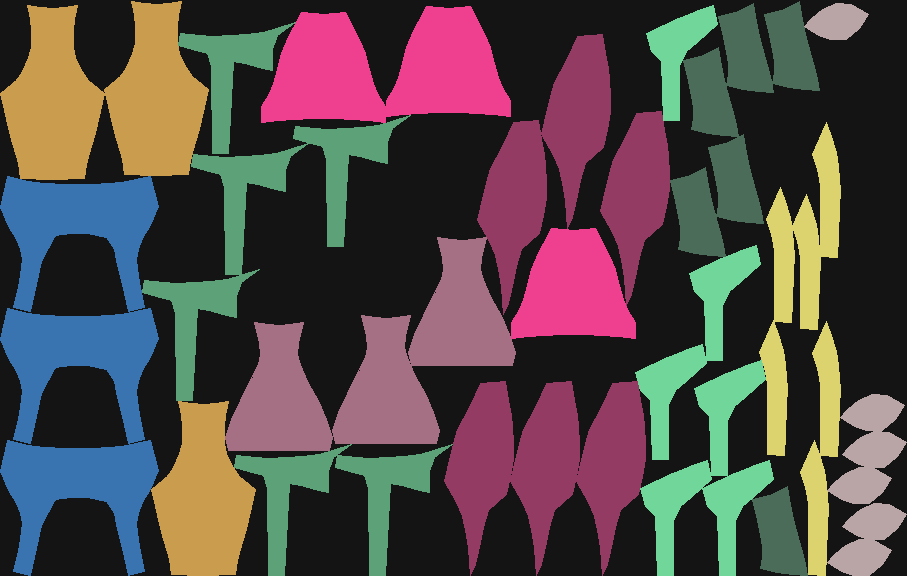
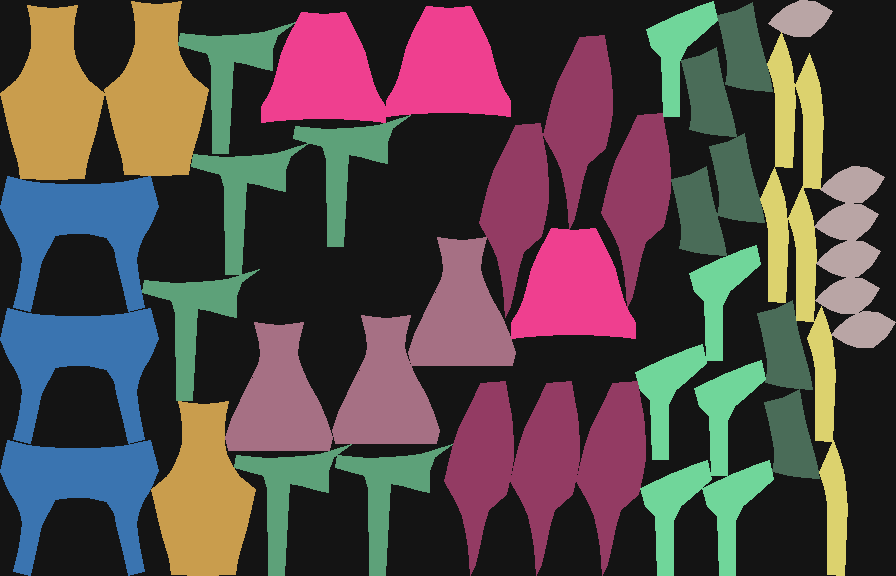
feat: main now runs all instances

diff --git a/src/main.cpp b/src/main.cpp
@@ -1,8 +1,11 @@
 #include <iostream>
 #include <fstream>
+#include <sstream>
+#include <iomanip>
 #include <vector>
 #include <cmath>
 #include <algorithm>
+#include <chrono>
 #include <filesystem>
 
 #include "grid.h"
@@ -11,20 +14,30 @@
 #include "conversor.h"
 #include "io.h"
 
-int main(int argc, char* argv[]) {
-    const std::string caminho_config = (argc > 1) ? argv[1] : "./config/config.txt";
+struct Resultado {
+    std::string instancia;
+    double escala = 0.0;
+    double largura_folha_real = 0.0;
+    size_t total_pecas = 0;
+    int comprimento_grid = 0;
+    double comprimento_real = 0.0;
+    double eficiencia = 0.0;
+    double tempo_ms = 0.0;
+};
 
-    Config config;
-    if (!ler_config(caminho_config, config)) return 1;
+bool executar_instancia(const std::string& caminho, const std::string& nome,
+                        const ParametrosInstancia& params, const std::string& dir_saida,
+                        Resultado& resultado) {
+    const auto inicio = std::chrono::steady_clock::now();
 
-    std::ifstream arquivo(config.arquivo);
+    std::ifstream arquivo(caminho);
     if (!arquivo.is_open()) {
-        std::cerr << "Erro ao abrir o ficheiro: " << config.arquivo << std::endl;
-        return 1;
+        std::cerr << "Erro ao abrir o ficheiro: " << caminho << std::endl;
+        return false;
     }
 
-    const double ESCALA = config.escala;
-    const double LARGURA_FOLHA_REAL = config.largura_folha_real;
+    const double ESCALA = params.escala;
+    const double LARGURA_FOLHA_REAL = params.largura_folha_real;
 
     std::vector<Componente> lista_pecas;
     int soma_comprimentos_grid = 0;
@@ -65,21 +78,99 @@ int main(int argc, char* argv[]) {
         alocar_componente(folha, peca, comprimento_final_grid);
     }
 
+    const auto fim = std::chrono::steady_clock::now();
+
     // 4. Resultados
-    double comprimento_real_usado = comprimento_final_grid / ESCALA;
-    double eficiencia = static_cast<double>(area_total_ocupada_pelas_pecas) /
-                        (largura_folha_grid * comprimento_final_grid) * 100.0;
+    resultado.instancia = nome;
+    resultado.escala = ESCALA;
+    resultado.largura_folha_real = LARGURA_FOLHA_REAL;
+    resultado.total_pecas = lista_pecas.size();
+    resultado.comprimento_grid = comprimento_final_grid;
+    resultado.comprimento_real = comprimento_final_grid / ESCALA;
+    resultado.eficiencia = static_cast<double>(area_total_ocupada_pelas_pecas) /
+                           (static_cast<double>(largura_folha_grid) * comprimento_final_grid) * 100.0;
+    resultado.tempo_ms = std::chrono::duration<double, std::milli>(fim - inicio).count();
 
-    std::cout << "=== RESULTADO DO EMPACOTAMENTO ===" << std::endl;
-    std::cout << "Total de pecas alocadas : " << lista_pecas.size() << std::endl;
-    std::cout << "Comprimento na grelha   : " << comprimento_final_grid << " celulas" << std::endl;
-    std::cout << "Comprimento real (C_L)  : " << comprimento_real_usado << std::endl;
-    std::cout << "Eficiencia do layout    : " << eficiencia << "%" << std::endl;
-
-    // Nome da saída derivado da instância (ex.: dataset/swim.txt -> outputs/layout_swim.ppm)
-    const std::string dir_saida = "outputs";
-    const std::string nome_ppm = dir_saida + "/layout_" + std::filesystem::path(config.arquivo).stem().string() + ".ppm";
-    if (!exportar_ppm(folha, comprimento_final_grid, nome_ppm)) return 1;
+    const std::string nome_ppm = dir_saida + "/layout_" + nome + ".ppm";
+    if (!exportar_ppm(folha, comprimento_final_grid, nome_ppm)) return false;
     converter_ppm_para_png(nome_ppm, dir_saida);
-    return 0;
+    return true;
+}
+
+std::string tabela_markdown(const std::vector<Resultado>& resultados) {
+    std::ostringstream md;
+    md << std::fixed;
+    md << "| Instancia | Escala | Largura da folha | Total de pecas alocadas | Comprimento na grelha"
+          " | Comprimento real (C_L) | Eficiencia do layout | Tempo de execucao |\n";
+    md << "|---|---:|---:|---:|---:|---:|---:|---:|\n";
+    for (const auto& r : resultados) {
+        md << "| " << r.instancia
+           << " | " << std::defaultfloat << std::setprecision(6) << r.escala
+           << " | " << r.largura_folha_real << std::fixed
+           << " | " << r.total_pecas
+           << " | " << r.comprimento_grid << " celulas"
+           << " | " << std::setprecision(2) << r.comprimento_real
+           << " | " << std::setprecision(2) << r.eficiencia << "%"
+           << " | " << std::setprecision(3) << r.tempo_ms << " ms |\n";
+    }
+    return md.str();
+}
+
+int main(int argc, char* argv[]) {
+    const std::string caminho_config = (argc > 1) ? argv[1] : "./config/config.txt";
+
+    Config config;
+    if (!ler_config(caminho_config, config)) return 1;
+
+    std::vector<std::filesystem::path> instancias;
+    std::error_code ec;
+    for (const auto& entrada : std::filesystem::directory_iterator(config.dataset, ec)) {
+        if (entrada.is_regular_file() && entrada.path().extension() == ".txt") {
+            instancias.push_back(entrada.path());
+        }
+    }
+    if (ec) {
+        std::cerr << "Erro ao listar " << config.dataset << ": " << ec.message() << std::endl;
+        return 1;
+    }
+    std::sort(instancias.begin(), instancias.end());
+
+    const std::string dir_saida = "outputs";
+    std::vector<Resultado> resultados;
+    bool houve_erro = false;
+
+    for (const auto& caminho : instancias) {
+        const std::string nome = caminho.stem().string();
+        auto it = config.instancias.find(nome);
+        if (it == config.instancias.end()) {
+            std::cerr << "Instancia '" << nome << "' sem parametros em " << caminho_config
+                      << " (adicione '" << nome << " = <escala> <largura_folha_real>'); ignorada" << std::endl;
+            houve_erro = true;
+            continue;
+        }
+
+        std::cout << "Executando " << nome << "..." << std::endl;
+        Resultado r;
+        if (executar_instancia(caminho.string(), nome, it->second, dir_saida, r)) {
+            resultados.push_back(r);
+        } else {
+            houve_erro = true;
+        }
+    }
+
+    const std::string tabela = tabela_markdown(resultados);
+    std::cout << "\n=== RESULTADO DO EMPACOTAMENTO ===\n\n" << tabela << std::endl;
+
+    const std::string caminho_md = dir_saida + "/resultados.md";
+    std::filesystem::create_directories(dir_saida, ec);
+    std::ofstream md(caminho_md);
+    if (md.is_open()) {
+        md << "# Resultados do empacotamento\n\n" << tabela;
+        std::cout << "Tabela salva em " << caminho_md << std::endl;
+    } else {
+        std::cerr << "Erro ao criar " << caminho_md << std::endl;
+        houve_erro = true;
+    }
+
+    return houve_erro ? 1 : 0;
 }

diff --git a/src/io.cpp b/src/io.cpp
@@ -2,6 +2,7 @@
 #include <iostream>
 #include <limits>
 #include <filesystem>
+#include <sstream>
 
 static std::string aparar(const std::string& s) {
     const char* espacos = " \t\r\n";
@@ -18,7 +19,6 @@ bool ler_config(const std::string& caminho, Config& config) {
         return false;
     }
 
-    bool tem_arquivo = false, tem_escala = false, tem_largura = false;
     std::string linha;
     int num_linha = 0;
 
@@ -36,33 +36,30 @@ bool ler_config(const std::string& caminho, Config& config) {
         std::string chave = aparar(linha.substr(0, igual));
         std::string valor = aparar(linha.substr(igual + 1));
 
-        try {
-            if (chave == "arquivo") {
-                config.arquivo = valor;
-                tem_arquivo = true;
-            } else if (chave == "escala") {
-                config.escala = std::stod(valor);
-                tem_escala = true;
-            } else if (chave == "largura_folha_real") {
-                config.largura_folha_real = std::stod(valor);
-                tem_largura = true;
-            } else {
-                std::cerr << caminho << ":" << num_linha << ": chave desconhecida '" << chave << "'" << std::endl;
-                return false;
-            }
-        } catch (const std::exception&) {
-            std::cerr << caminho << ":" << num_linha << ": valor invalido para '" << chave << "'" << std::endl;
+        if (chave == "dataset") {
+            config.dataset = valor;
+            continue;
+        }
+
+        // Demais chaves: <instancia> = <escala> <largura_folha_real>
+        ParametrosInstancia params;
+        std::istringstream ss(valor);
+        std::string resto;
+        if (!(ss >> params.escala >> params.largura_folha_real) || (ss >> resto)) {
+            std::cerr << caminho << ":" << num_linha << ": esperado '" << chave
+                      << " = <escala> <largura_folha_real>'" << std::endl;
             return false;
         }
+        if (params.escala <= 0 || params.largura_folha_real <= 0) {
+            std::cerr << caminho << ":" << num_linha
+                      << ": escala e largura_folha_real devem ser positivos" << std::endl;
+            return false;
+        }
+        config.instancias[chave] = params;
     }
 
-    if (!tem_arquivo || !tem_escala || !tem_largura) {
-        std::cerr << "Configuracao incompleta em " << caminho
-                  << " (necessario: arquivo, escala, largura_folha_real)" << std::endl;
-        return false;
-    }
-    if (config.escala <= 0 || config.largura_folha_real <= 0) {
-        std::cerr << "escala e largura_folha_real devem ser positivos" << std::endl;
+    if (config.instancias.empty()) {
+        std::cerr << "Nenhuma instancia configurada em " << caminho << std::endl;
         return false;
     }
     return true;

diff --git a/include/io.h b/include/io.h
@@ -3,16 +3,24 @@
 
 #include <string>
 #include <fstream>
+#include <map>
 #include "grid.h"
 #include "molde.h"
 
-struct Config {
-    std::string arquivo;
+struct ParametrosInstancia {
     double escala = 0.0;
     double largura_folha_real = 0.0;
 };
 
-// Lê pares "chave = valor" de um arquivo de configuração (linhas com # são comentários)
+struct Config {
+    std::string dataset = "./dataset";
+    // nome da instância (ex.: "shirts" para dataset/shirts.txt) -> parâmetros
+    std::map<std::string, ParametrosInstancia> instancias;
+};
+
+// Lê um arquivo de configuração (linhas com # são comentários) no formato:
+//   dataset = <diretorio>
+//   <instancia> = <escala> <largura_folha_real>
 bool ler_config(const std::string& caminho, Config& config);
 
 bool ler_molde(std::ifstream& arquivo, Molde& molde);

diff --git a/README.md b/README.md
@@ -17,13 +17,20 @@ cmake --build build
 
 ## Executar
 
-Rode a partir da raiz do projeto (a instância é lida de `dataset/swim.txt`):
+Rode a partir da raiz do projeto. Todas as instâncias (`.txt`) de `dataset/` são executadas, cada uma com a escala e a largura de folha definidas em `config/config.txt`:
 
-```bash
-./build/empacotador
+```
+dataset = ./dataset
+shirts   = 10  40     # <instancia> = <escala> <largura_folha_real>
+trousers = 10  79
+swim     = 0.1 5752
 ```
 
-O programa imprime o comprimento usado e a eficiência do layout, e gera as imagens `outputs/layout_swim.ppm` e `outputs/layout_swim.png`.
+```bash
+./build/empacotador [caminho_config]
+```
+
+O programa imprime uma tabela markdown (também salva em `outputs/resultados.md`) com total de peças alocadas, comprimento na grelha, comprimento real (C_L), eficiência do layout e tempo de execução de cada instância, e gera as imagens `outputs/layout_<instancia>.png`.
 
 ## Estrutura
 
